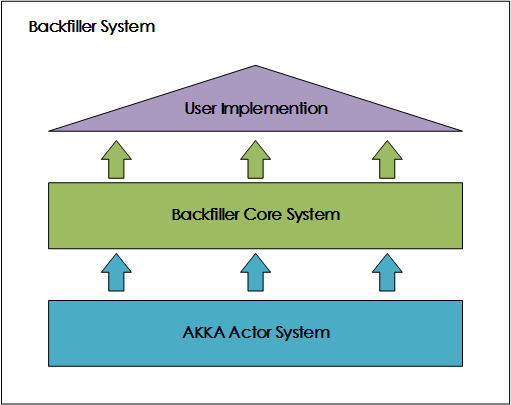
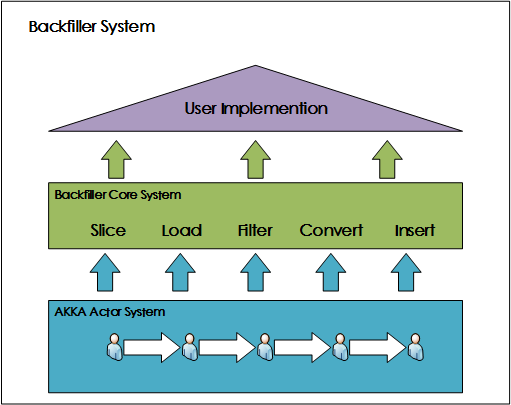
add ActorMessageFlow

diff --git a/README.md b/README.md
@@ -34,3 +34,6 @@ sink    2      2     0       0.19221911068113465 0.0           0.0            0.
 
 ## ActorSystem
 ![ActorSystem](/architecture/ActorSystem.png)
+
+## ActorMessageFlow
+![ActorSystem](/architecture/ActorMessageFlow.png)
